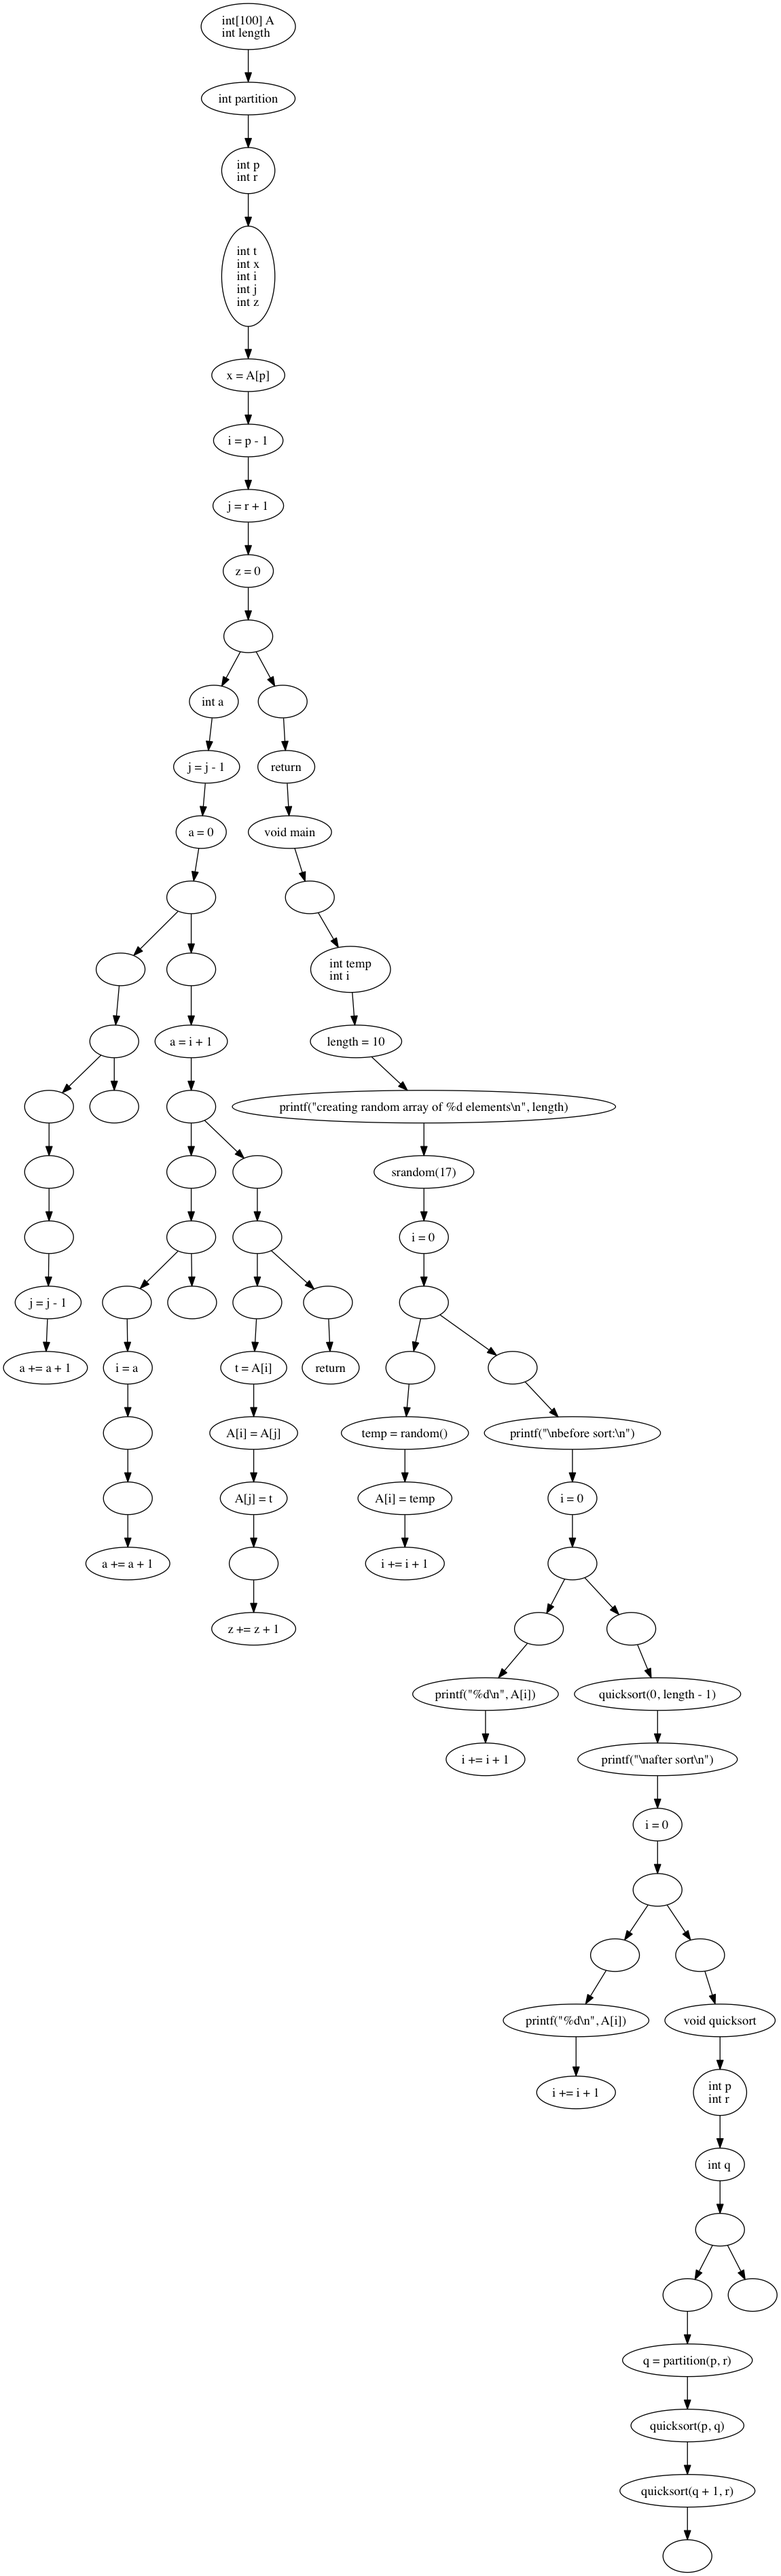
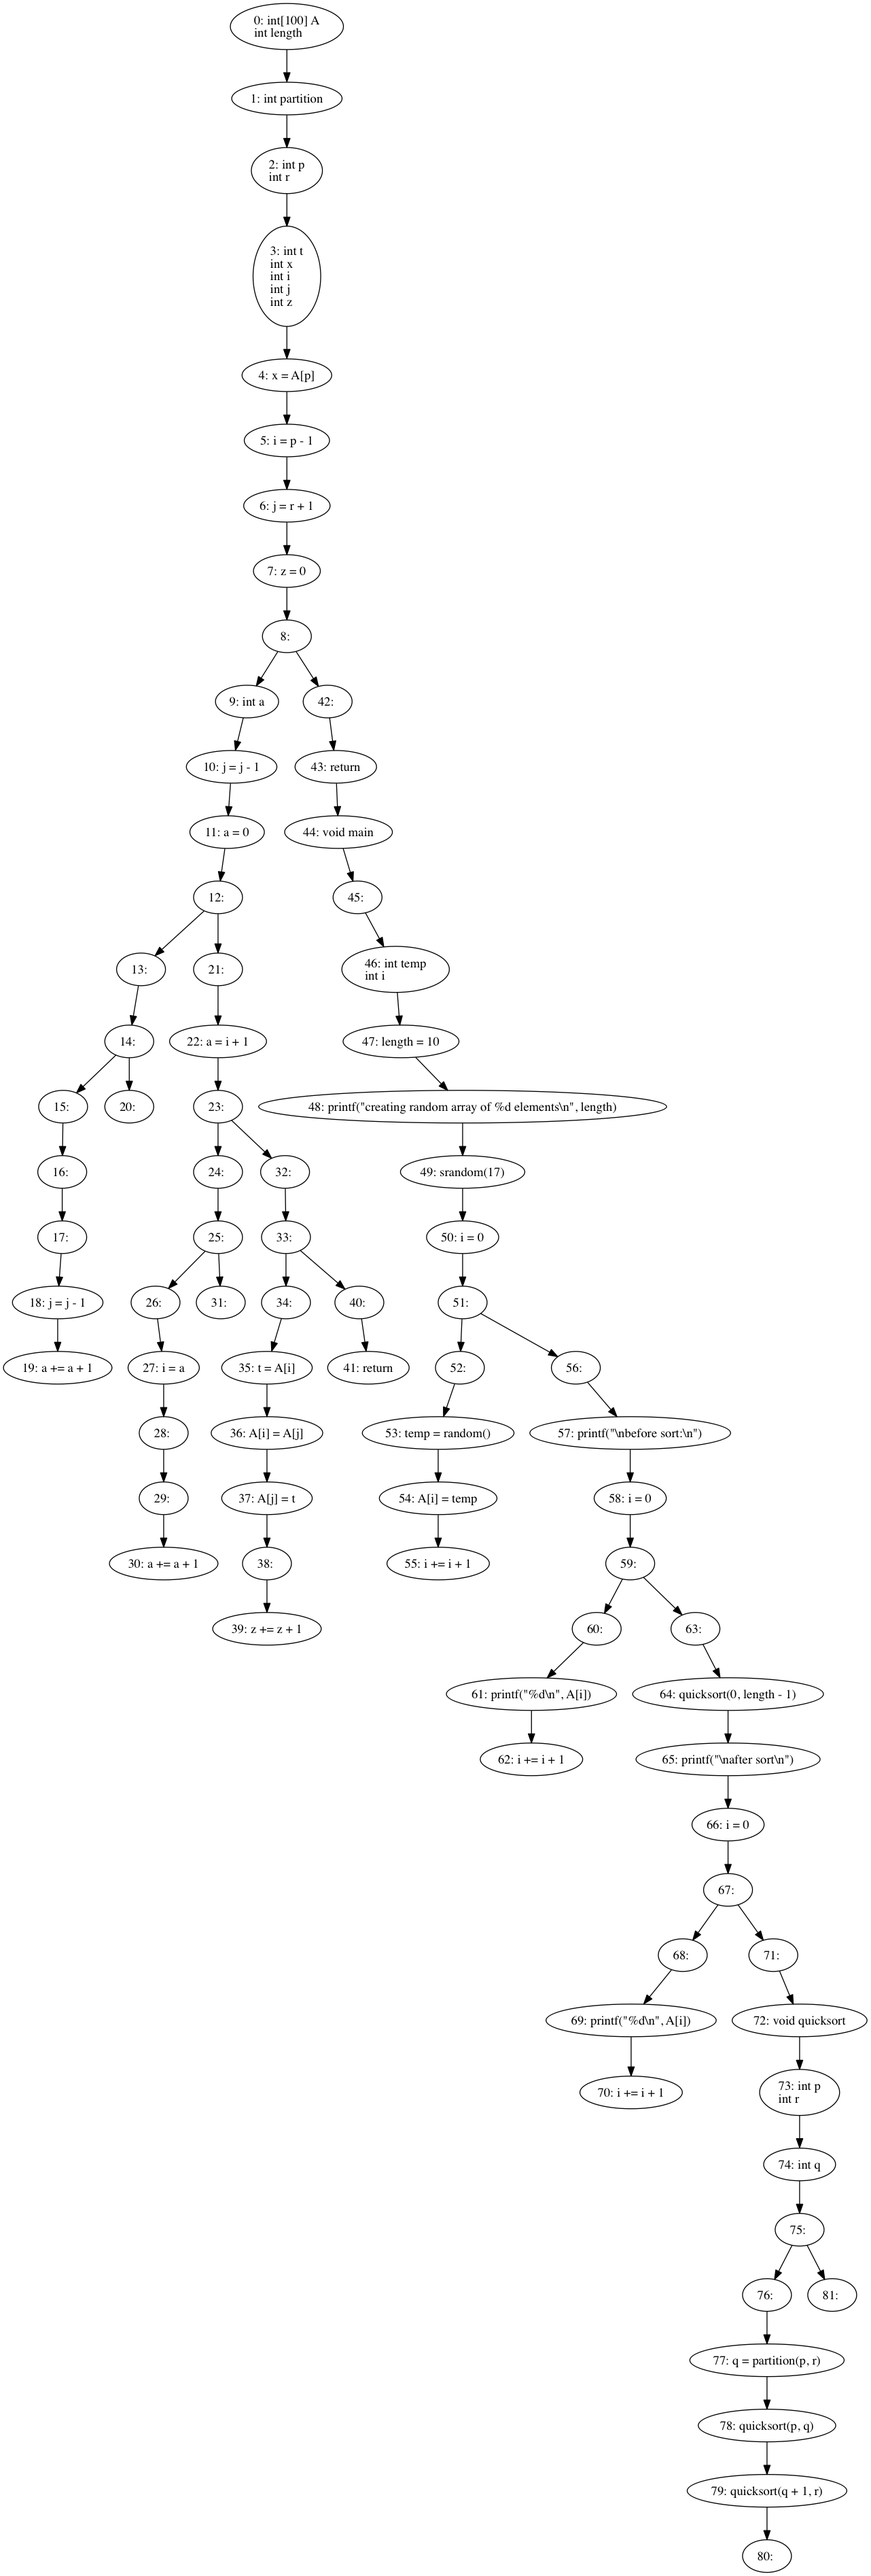
nodes in graph have block ids

diff --git a/src/edu/mit/compilers/cfg/components/CFG.java b/src/edu/mit/compilers/cfg/components/CFG.java
@@ -163,7 +163,7 @@ public class CFG implements CFGAble {
                         s = s.replace(":", "\\:");
                         s = s.replace(" ", "\\ ");
                         
-                        return s;
+                        return Integer.toString(bb.getID()) + ": " + s;
                     }
                 },
                 null);
